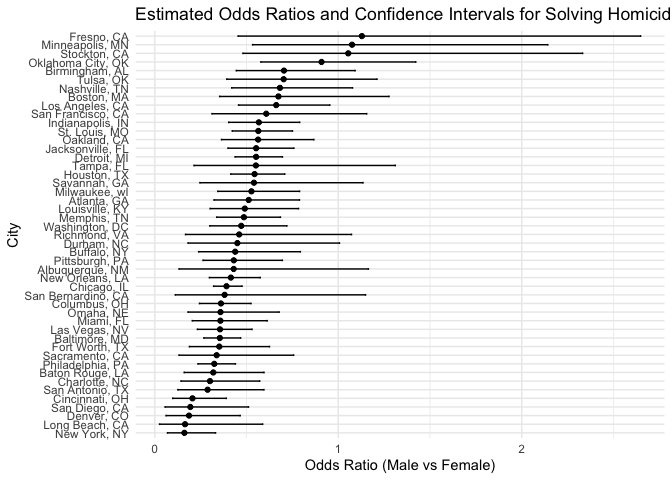
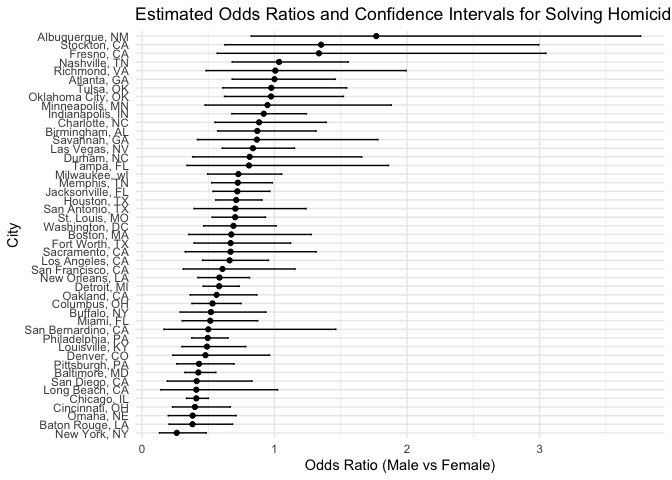
change on problem 2

diff --git a/p8105_hw6_mc5698.md b/p8105_hw6_mc5698.md
@@ -6,8 +6,6 @@ p8105_hw6_mc5698
 
 ``` r
 #Read dataset
-set.seed(1)
-
 weather_df = 
   rnoaa::meteo_pull_monitors(
     c("USW00094728"),
@@ -23,16 +21,17 @@ weather_df =
 
 ``` r
 #Define function
-bootstrap_results <- map_df(1:5000, function(i) {
+set.seed(1)
+bootstrap<- 
+  map_df(1:5000, function(i) {
   sample_df <- weather_df %>% sample_frac(size = 1, replace = TRUE)
   lm_model <- lm(tmax ~ tmin, data = sample_df)
   
-  glance_metrics <- glance(lm_model)
-  tidy_metrics <- tidy(lm_model)
+  glance_metrics <- broom::glance(lm_model)
+  tidy_metrics <- broom::tidy(lm_model)
   
   r_squared <- glance_metrics$r.squared
   log_beta <- log(tidy_metrics$estimate[1] * tidy_metrics$estimate[2])
-  
   tibble(
     r_squared = r_squared,
     log_beta = log_beta)})
@@ -40,8 +39,8 @@ bootstrap_results <- map_df(1:5000, function(i) {
 
 ``` r
 # Confidence Intervals
-ci_r_squared <- quantile(bootstrap_results$r_squared, probs = c(0.025, 0.975))
-ci_log_beta <- quantile(bootstrap_results$log_beta, probs = c(0.025, 0.975))
+ci_r_squared <- quantile(bootstrap$r_squared, probs = c(0.025, 0.975))
+ci_log_beta <- quantile(bootstrap$log_beta, probs = c(0.025, 0.975))
 
 ci_r_squared
 ```
@@ -57,11 +56,11 @@ ci_log_beta
     ## 1.964949 2.058887
 
 ``` r
-# Plot Results
-bootstrap_results %>%
+# Plot
+bootstrap %>%
   pivot_longer(everything(), names_to = "metric", values_to = "value") %>%
   ggplot(aes(x = value)) +
-  geom_histogram(bins = 30, fill = "blue", alpha = 0.7) +
+  geom_histogram(bins = 30, fill = "pink", alpha = 0.7) +
   facet_wrap(~ metric, scales = "free", ncol = 1) +
   theme_minimal() +
   labs(title = "Bootstrap Distributions", x = "Value", y = "Count")
@@ -80,47 +79,45 @@ homicide_data <- read_csv("data/homicide-data.csv")
 # Data Cleaning
 omit_cities <- c("Dallas, TX", "Phoenix, AZ", "Kansas City, MO", "Tulsa, AL")
 
-filtered_data <- homicide_data %>%
+clean_data <- homicide_data %>%
+  janitor::clean_names() %>%
   mutate(
     city_state = paste(city, state, sep = ", "),
-    solved = if_else(str_detect(disposition, "Closed"), 1, 0),
-    victim_age = as.numeric(victim_age)
+    solved = ifelse(disposition == "Closed by arrest", 1, 0)
   ) %>%
-  filter(
-    !city_state %in% omit_cities,
-    victim_race %in% c("White", "Black")
-  ) %>%
-  drop_na(victim_age, victim_sex, victim_race, solved)
+  filter(!city_state %in% omit_cities,
+         victim_race %in% c("White", "Black")) %>%
+  mutate(victim_age = as.numeric(victim_age)) %>%
+  filter(!is.na(victim_age))
 ```
 
 ``` r
 # Model for Baltimore
-baltimore_data <- filtered_data %>%
-  filter(city_state == "Baltimore, MD")
-
+baltimore_data <- clean_data %>%
+  filter(city_state == "Baltimore, MD") 
+  
 baltimore_model <- glm(solved ~ victim_age + victim_sex + victim_race, 
-                       data = baltimore_data, family = binomial)
+                       data = baltimore_data, family = binomial())
 
 baltimore_results <- broom::tidy(baltimore_model, conf.int = TRUE) %>%
   filter(term == "victim_sexMale") %>%
   mutate(
     odds_ratio = exp(estimate),
     ci_lower = exp(conf.low),
-    ci_upper = exp(conf.high)
-  )
-
-baltimore_results %>% 
+    ci_upper = exp(conf.high)) %>% 
   select(odds_ratio, ci_lower, ci_upper)
+
+baltimore_results 
 ```
 
     ## # A tibble: 1 × 3
     ##   odds_ratio ci_lower ci_upper
     ##        <dbl>    <dbl>    <dbl>
-    ## 1      0.355    0.267    0.468
+    ## 1      0.426    0.324    0.558
 
 ``` r
 #For All Cities
-city_results <- filtered_data %>%
+city_results <- clean_data %>%
   group_by(city_state) %>%
   nest() %>%
   mutate(
@@ -143,16 +140,16 @@ city_results
     ## # Groups:   city_state [47]
     ##    city_state      odds_ratio ci_lower ci_upper
     ##    <chr>                <dbl>    <dbl>    <dbl>
-    ##  1 Albuquerque, NM      0.430   0.132     1.16 
-    ##  2 Atlanta, GA          0.512   0.323     0.789
-    ##  3 Baltimore, MD        0.355   0.267     0.468
-    ##  4 Baton Rouge, LA      0.319   0.160     0.596
-    ##  5 Birmingham, AL       0.704   0.444     1.09 
-    ##  6 Boston, MA           0.674   0.353     1.28 
-    ##  7 Buffalo, NY          0.438   0.239     0.793
-    ##  8 Charlotte, NC        0.301   0.143     0.572
-    ##  9 Chicago, IL          0.391   0.321     0.476
-    ## 10 Cincinnati, OH       0.206   0.0977    0.390
+    ##  1 Albuquerque, NM      1.77     0.825    3.76 
+    ##  2 Atlanta, GA          1.00     0.680    1.46 
+    ##  3 Baltimore, MD        0.426    0.324    0.558
+    ##  4 Baton Rouge, LA      0.381    0.204    0.684
+    ##  5 Birmingham, AL       0.870    0.571    1.31 
+    ##  6 Boston, MA           0.674    0.353    1.28 
+    ##  7 Buffalo, NY          0.521    0.288    0.936
+    ##  8 Charlotte, NC        0.884    0.551    1.39 
+    ##  9 Chicago, IL          0.410    0.336    0.501
+    ## 10 Cincinnati, OH       0.400    0.231    0.667
     ## # ℹ 37 more rows
 
 ``` r
@@ -174,34 +171,25 @@ city_results %>%
 ![](p8105_hw6_mc5698_files/figure-gfm/unnamed-chunk-10-1.png)<!-- -->
 The graph shows the estimated odds ratios and 95% confidence intervals
 for solving homicides comparing male to female victims across various
-U.S. cities. In most cities, such as Baltimore and Atlanta, the ORs are
+U.S. cities. In most cities, such as Baltimore and New York, the ORs are
 below 1, suggesting that homicides involving male victims are less
 likely to be solved compared to female victims. Moreover, some cities
-like Fresno and Birmingham, have confidence intervals that cross 1,
-implying that the difference in solving rates between male and female
-victims may not be statistically significant in those locations.
+like Fresno and Boston, have confidence intervals that cross 1, implying
+that the difference in solving rates between male and female victims may
+not be statistically significant in those locations.
 
 \#Problem 3
 
 ``` r
 #Read data
 birthweight_data <- read_csv("data/birthweight.csv")
-```
 
-    ## Rows: 4342 Columns: 20
-    ## ── Column specification ────────────────────────────────────────────────────────
-    ## Delimiter: ","
-    ## dbl (20): babysex, bhead, blength, bwt, delwt, fincome, frace, gaweeks, malf...
-    ## 
-    ## ℹ Use `spec()` to retrieve the full column specification for this data.
-    ## ℹ Specify the column types or set `show_col_types = FALSE` to quiet this message.
-
-``` r
 # Data Cleaning
 omit_cols <- c("bhead", "blength", "delwt", "fincome", "gaweeks", "mheight", 
                "momage", "parity", "ppbmi", "smoken", "wtgain", "bwt")
 
 birthweight_clean <- birthweight_data %>%
+  janitor::clean_names() %>%
   select(all_of(omit_cols)) %>%
   drop_na()
 ```
